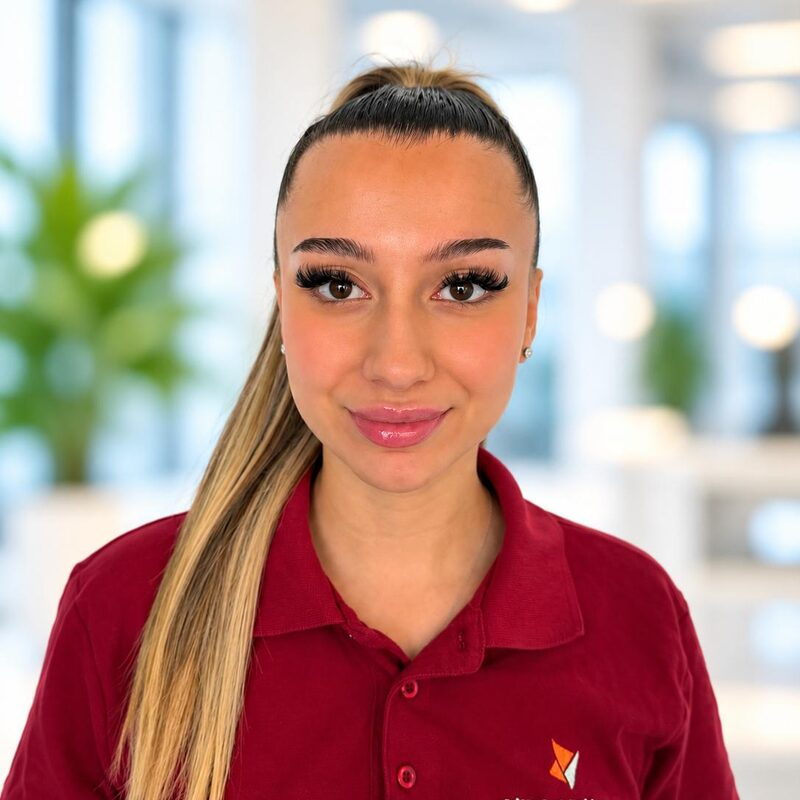
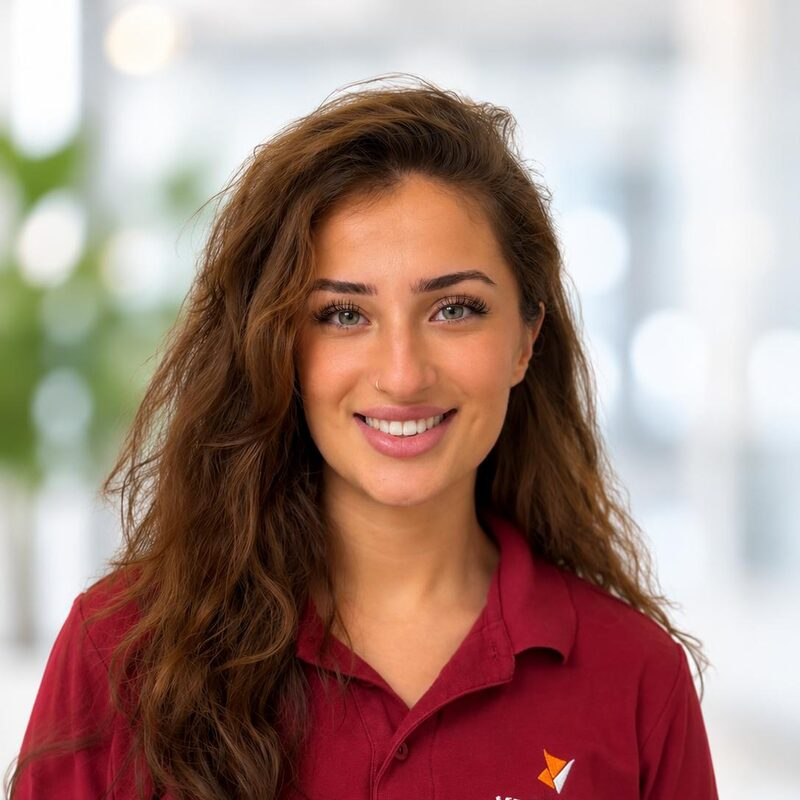
Fotos von Mihrab Kilic und Katrin Nadile getauscht
Claude-Session: https://claude.ai/code/session_01X5VRoP68YmvtuZtS139WmW

diff --git a/index.html b/index.html
@@ -217,11 +217,11 @@
             <figcaption>Julia Giess<span class="role">MPA und Berufsbildnerin</span></figcaption>
           </figure>
           <figure>
-            <div class="media media-portrait"><img src="img/team-kilic.jpg" alt="Mihrab Kilic" width="800" height="800" loading="lazy"></div>
+            <div class="media media-portrait"><img src="img/team-kilic.jpg?v=2" alt="Mihrab Kilic" width="800" height="800" loading="lazy"></div>
             <figcaption>Mihrab Kilic<span class="role">Arztsekretärin</span></figcaption>
           </figure>
           <figure>
-            <div class="media media-portrait"><img src="img/team-nadile.jpg" alt="Katrin Nadile" width="800" height="800" loading="lazy"></div>
+            <div class="media media-portrait"><img src="img/team-nadile.jpg?v=2" alt="Katrin Nadile" width="800" height="800" loading="lazy"></div>
             <figcaption>Katrin Nadile<span class="role">MPA</span></figcaption>
           </figure>
           <figure>

diff --git a/team.html b/team.html
@@ -139,12 +139,12 @@
             <p class="role">MPA und Berufsbildnerin</p>
           </article>
           <article class="person">
-            <div class="media media-portrait"><img src="img/team-kilic.jpg" alt="Mihrab Kilic" width="800" height="800" loading="lazy"></div>
+            <div class="media media-portrait"><img src="img/team-kilic.jpg?v=2" alt="Mihrab Kilic" width="800" height="800" loading="lazy"></div>
             <h3>Mihrab Kilic</h3>
             <p class="role">Arztsekretärin</p>
           </article>
           <article class="person">
-            <div class="media media-portrait"><img src="img/team-nadile.jpg" alt="Katrin Nadile" width="800" height="800" loading="lazy"></div>
+            <div class="media media-portrait"><img src="img/team-nadile.jpg?v=2" alt="Katrin Nadile" width="800" height="800" loading="lazy"></div>
             <h3>Katrin Nadile</h3>
             <p class="role">MPA</p>
           </article>
